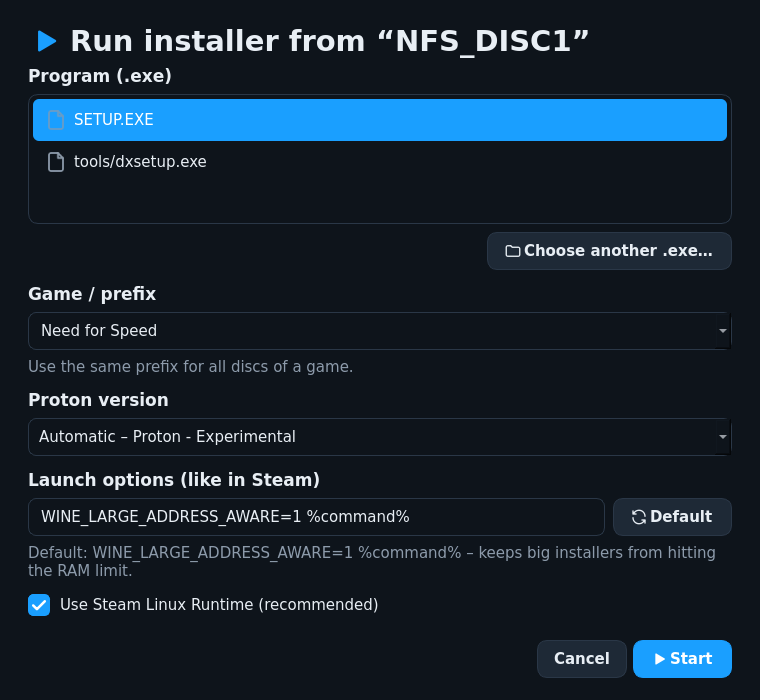
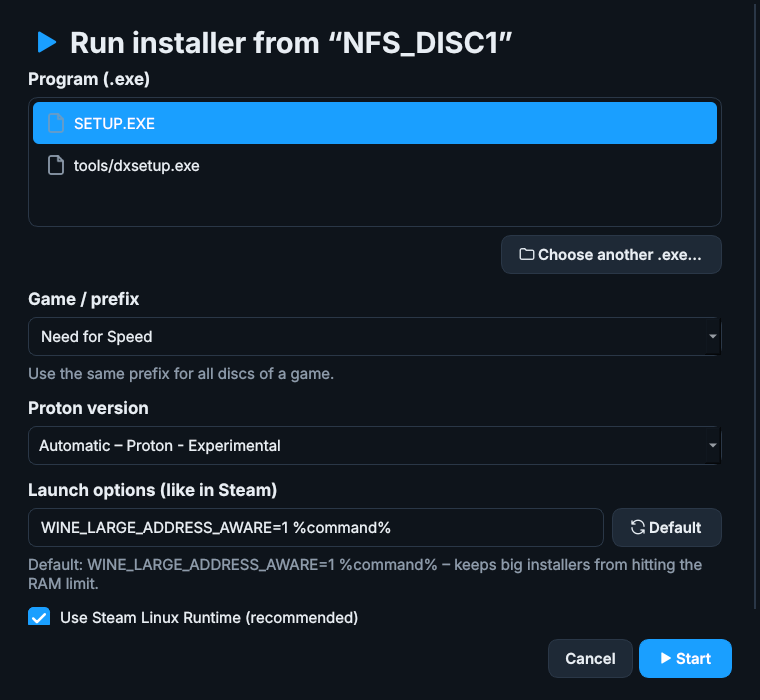
Fix installers not starting: launch like Steam (v2.0.1)
Start the .exe with its Linux path instead of a D:\ drive letter, skip the
separate wineboot run, remove D:-G: links left behind by 2.0.0, drop
STEAM_COMPAT_LIBRARY_PATHS and set the app id variables. Drive letters
are now an experimental option (off by default).

Claude-Session: https://claude.ai/code/session_01C7fdTPdnkKPmWx4WZtynzN

diff --git a/src/isomounttool/gui.py b/src/isomounttool/gui.py
@@ -251,18 +251,24 @@ class GameRunner(QThread):
                 log.write(f"{core.APP_NAME} {core.app_version()}\nProton: {self.tool.name} ({self.tool.path})\n"
                           f"Prefix: {self.prefix.path}\nProgram: {self.exe}\n\n")
                 log.flush()
-                if not self.prefix.initialized:
-                    self.status.emit(self.t("st_preparing", name=self.prefix.name))
-                    cmd, env, cwd = core.init_command(self.prefix, self.tool, self.cfg, self.use_runtime)
-                    log.write("$ " + " ".join(cmd) + "\n")
-                    log.flush()
-                    try:
-                        subprocess.run(cmd, env=env, cwd=cwd, stdout=log, stderr=subprocess.STDOUT, timeout=600)
-                    except subprocess.TimeoutExpired:
-                        log.write("prefix init timed out\n")
-                linked = core.link_prefix_drives(self.prefix)
+                letters = bool(self.cfg.get("drive_letters", False))
                 isos = core.current_isos()
-                win = core.windows_path_for(self.exe, isos) if (self.from_iso and linked) else ""
+                win = ""
+                if letters:
+                    # experimental: create the prefix first so D:..G: can be linked into it
+                    if not self.prefix.initialized:
+                        self.status.emit(self.t("st_preparing", name=self.prefix.name))
+                        cmd, env, cwd = core.init_command(self.prefix, self.tool, self.cfg, self.use_runtime)
+                        log.write("$ " + " ".join(cmd) + "\n")
+                        log.flush()
+                        try:
+                            subprocess.run(cmd, env=env, cwd=cwd, stdout=log, stderr=subprocess.STDOUT, timeout=600)
+                        except subprocess.TimeoutExpired:
+                            log.write("prefix init timed out\n")
+                    if core.link_prefix_drives(self.prefix) and self.from_iso:
+                        win = core.windows_path_for(self.exe, isos)
+                elif core.unlink_prefix_drives(self.prefix):
+                    log.write("Removed drive letters D:-G: of older versions from this prefix\n")
                 cmd, env, cwd = core.build_launch(self.exe, self.prefix, self.tool, self.cfg, isos, win,
                                                   self.launch_options, self.use_runtime)
                 log.write("\n$ " + " ".join(cmd) + "\n")
@@ -302,9 +308,9 @@ class SlotCard(QFrame):
     open_requested = Signal(object)
     install_requested = Signal(object)
 
-    def __init__(self, t: Translator, slot: int):
+    def __init__(self, t: Translator, slot: int, letters: bool = False):
         super().__init__()
-        self.t, self.slot, self.iso = t, slot, None
+        self.t, self.slot, self.iso, self.letters = t, slot, None, letters
         self.setObjectName("Card")
         self.setAcceptDrops(True)
         self.setMinimumHeight(220)
@@ -325,7 +331,10 @@ class SlotCard(QFrame):
         t1 = label(f"{t('slot', n=slot + 1)} · {t('slot_empty')}", "CardTitle")
         t1.setAlignment(Qt.AlignCenter)
         el.addWidget(t1)
-        t2 = label(t("slot_empty_hint") + f"  ·  {t('drive', l=core.DRIVE_LETTERS[slot].upper())}", "Muted")
+        hint = t("slot_empty_hint")
+        if letters:
+            hint += f"  ·  {t('drive', l=core.DRIVE_LETTERS[slot].upper())}"
+        t2 = label(hint, "Muted")
         t2.setAlignment(Qt.AlignCenter)
         el.addWidget(t2)
         el.addStretch(1)
@@ -396,8 +405,9 @@ class SlotCard(QFrame):
             self.setCursor(Qt.ArrowCursor)
             self.title.setText(iso.label)
             self.file.setText(iso.name)
-            self.drive_badge.setText(self.t("drive", l=iso.drive_letter) if iso.drive_letter else "")
-            self.drive_badge.setVisible(bool(iso.drive_letter))
+            show = bool(iso.drive_letter) and self.letters
+            self.drive_badge.setText(self.t("drive", l=iso.drive_letter) if show else "")
+            self.drive_badge.setVisible(show)
             self.path.setText(iso.mountpoint or self.t("not_mounted"))
             found = core.find_installers(iso.mountpoint) if iso.mountpoint else []
             self.installer.setText(self.t("installer_found", exe=os.path.relpath(found[0], iso.mountpoint))
@@ -485,7 +495,7 @@ class IsoPage(QWidget):
         grid.setSpacing(18)
         self.cards = []
         for i in range(core.MAX_ISOS):
-            c = SlotCard(t, i)
+            c = SlotCard(t, i, bool(win.cfg.get("drive_letters", False)))
             c.mount_requested.connect(lambda slot, path: win.mount_dialog(slot, path))
             c.eject_requested.connect(win.eject_iso)
             c.open_requested.connect(lambda iso: core.open_path(iso.mountpoint))
@@ -790,6 +800,11 @@ class SettingsPage(QWidget):
         self.rt.setChecked(bool(cfg.get("use_runtime", True)))
         self.rt.toggled.connect(lambda v: self._set("use_runtime", bool(v)))
         pl.addWidget(self.rt)
+        self.letters = QCheckBox(t("set_letters"))
+        self.letters.setChecked(bool(cfg.get("drive_letters", False)))
+        self.letters.toggled.connect(self._letters_changed)
+        pl.addWidget(self.letters)
+        pl.addWidget(label(t("set_letters_hint"), "Muted", wrap=True))
         self.log = QCheckBox(t("set_log"))
         self.log.setChecked(bool(cfg.get("proton_log", False)))
         self.log.toggled.connect(lambda v: self._set("proton_log", bool(v)))
@@ -832,6 +847,10 @@ class SettingsPage(QWidget):
     def _set(self, key, value):
         self.win.cfg[key] = value
         self.win.cfg.save()
+
+    def _letters_changed(self, v):
+        self._set("drive_letters", bool(v))
+        QTimer.singleShot(0, lambda: self.win.rebuild(page=2))
 
     def _reset_opts(self):
         self.opts.setText(core.DEFAULT_LAUNCH_OPTIONS)
@@ -1124,7 +1143,7 @@ class MainWindow(QMainWindow):
             if exc:
                 self._mount_error(exc)
             elif res:
-                self.notify(self.t("mounted_toast", name=res.name, l=res.drive_letter))
+                self.notify(self.t("mounted_toast_simple", name=res.name))
 
         self._start_task(core.mount_iso, path, slot, done=done)
 

diff --git a/src/isomounttool/core.py b/src/isomounttool/core.py
@@ -78,6 +78,7 @@ DEFAULT_CONFIG = {
     "proton_log": False,
     "prefix_base": "",         # "" = ~/Games/IsoMountTool
     "launch_options": DEFAULT_LAUNCH_OPTIONS,
+    "drive_letters": False,    # experimental: map slots to D:..G: inside prefixes
 }
 
 
@@ -735,8 +736,9 @@ def delete_prefix(prefix: Prefix):
     shutil.rmtree(prefix.path)
 
 
-def set_cdrom_registry(system_reg: str, letters=DRIVE_LETTERS) -> bool:
-    """Marks the given drive letters as CD-ROM drives (HKLM\\Software\\Wine\\Drives)."""
+def set_cdrom_registry(system_reg: str, letters=DRIVE_LETTERS, remove: bool = False) -> bool:
+    """Marks the given drive letters as CD-ROM drives (HKLM\\Software\\Wine\\Drives),
+    or removes these entries again with remove=True."""
     try:
         with open(system_reg, encoding="utf-8", errors="surrogateescape") as f:
             text = f.read()
@@ -747,7 +749,15 @@ def set_cdrom_registry(system_reg: str, letters=DRIVE_LETTERS) -> bool:
     header_re = re.compile(r"^\[Software\\\\Wine\\\\Drives\](\s+\d+)?\s*$", re.IGNORECASE)
     idx = next((i for i, l in enumerate(lines) if header_re.match(l)), None)
     wanted = {f'"{l}:"': f'"{l}:"="cdrom"' for l in letters}
-    if idx is None:
+    if remove:
+        if idx is None:
+            return True
+        end = idx + 1
+        while end < len(lines) and lines[end].strip() != "" and not lines[end].startswith("["):
+            end += 1
+        drop = {v.lower() for v in wanted.values()}
+        lines[idx + 1:end] = [l for l in lines[idx + 1:end] if l.strip().lower() not in drop]
+    elif idx is None:
         if lines and lines[-1] != "":
             lines.append("")
         lines.append(f"[Software\\\\Wine\\\\Drives] {int(time.time())}")
@@ -808,6 +818,28 @@ def link_prefix_drives(prefix: Prefix) -> bool:
             ok = False
     set_cdrom_registry(os.path.join(prefix.pfx, "system.reg"))
     return ok
+
+
+def unlink_prefix_drives(prefix: Prefix) -> bool:
+    """Removes the D:..G: links this tool created (and their CD-ROM entries) from a prefix.
+
+    Without them Proton behaves exactly like when the .exe is started from Steam."""
+    dosdevices = os.path.join(prefix.pfx, "dosdevices")
+    if not os.path.isdir(dosdevices):
+        return False
+    ours = drives_dir()
+    removed = []
+    for letter in DRIVE_LETTERS:
+        link = os.path.join(dosdevices, f"{letter}:")
+        try:
+            if os.path.islink(link) and os.readlink(link).startswith(ours):
+                os.remove(link)
+                removed.append(letter)
+        except OSError:
+            pass
+    if removed:
+        set_cdrom_registry(os.path.join(prefix.pfx, "system.reg"), removed, remove=True)
+    return bool(removed)
 
 
 def windows_path_for(exe: str, isos: list[IsoMount]) -> str:
@@ -872,7 +904,9 @@ def build_launch(exe: str, prefix: Prefix, tool: ProtonTool, cfg: dict,
         "STEAM_COMPAT_INSTALL_PATH": exe_dir,
         "STEAM_COMPAT_TOOL_PATHS": ":".join([tool.path] + ([runtime] if runtime else [])),
         "STEAM_COMPAT_MOUNTS": ":".join(mounts),
-        "STEAM_COMPAT_LIBRARY_PATHS": ":".join(mounts),
+        "STEAM_COMPAT_APP_ID": "0",
+        "SteamAppId": "0",
+        "SteamGameId": "0",
         "PROTON_VERB": "waitforexitandrun",
     })
     if cfg.get("proton_log"):

diff --git a/src/isomounttool/i18n.py b/src/isomounttool/i18n.py
@@ -89,6 +89,9 @@ STRINGS = {
     "set_proton": ("Standard-Proton", "Default Proton"),
     "set_runtime": ("Proton in der Steam Linux Runtime starten (empfohlen)", "Run Proton inside the Steam Linux Runtime (recommended)"),
     "set_log": ("Proton-Log schreiben (zur Fehlersuche)", "Write Proton log (for troubleshooting)"),
+    "set_letters": ("Experimentell: ISOs als Laufwerke D:–G: im Präfix (Disc-Wechsel)", "Experimental: ISOs as drives D:–G: in the prefix (disc swapping)"),
+    "set_letters_hint": ("Aus = Start genau wie über Steam (empfohlen). Nur einschalten, wenn ein Installer unbedingt ein CD-Laufwerk verlangt.",
+                         "Off = started exactly like from Steam (recommended). Only turn on if an installer really needs a CD drive."),
     "set_prefix_base": ("Ordner für Präfixe", "Folder for prefixes"),
     "set_choose": ("Ändern…", "Change…"),
     "set_options": ("Standard-Startoptionen", "Default launch options"),
@@ -119,6 +122,7 @@ STRINGS = {
     "err_eject": ("Die ISO konnte nicht ausgeworfen werden.\nWird sie noch von einem Programm oder Dateimanager-Fenster benutzt? Schließe es und versuche es erneut.",
                   "The ISO could not be ejected.\nIs a program or file manager window still using it? Close it and try again."),
     "mounted_toast": ("„{name}“ eingebunden als Laufwerk {l}:", "“{name}” mounted as drive {l}:"),
+    "mounted_toast_simple": ("„{name}“ eingebunden", "“{name}” mounted"),
     "ejected_toast": ("„{name}“ ausgeworfen", "“{name}” ejected"),
     "confirm_eject_all": ("Alle {n} eingebundenen ISOs auswerfen?", "Eject all {n} mounted ISOs?"),
     "nothing_mounted": ("Es ist keine ISO eingebunden.", "No ISO is mounted."),

diff --git a/tests/test_core.py b/tests/test_core.py
@@ -133,6 +133,31 @@ class CoreTests(unittest.TestCase):
         with open(os.path.join(prefix.pfx, "system.reg")) as f:
             self.assertEqual(f.read().count('"d:"="cdrom"'), 1)
 
+    def test_unlink_prefix_drives_restores_steam_like_prefix(self):
+        core.current_isos()
+        prefix = core.get_prefix(core.Config(), "Anno 1602")
+        core.link_prefix_drives(prefix)
+        dos = os.path.join(prefix.pfx, "dosdevices")
+        os.symlink("/", os.path.join(dos, "z:"))
+        self.assertTrue(core.unlink_prefix_drives(prefix))
+        self.assertFalse(os.path.lexists(os.path.join(dos, "d:")))
+        self.assertEqual(os.readlink(os.path.join(dos, "z:")), "/")      # untouched
+        with open(os.path.join(prefix.pfx, "system.reg")) as f:
+            self.assertNotIn("cdrom", f.read())
+        self.assertFalse(core.unlink_prefix_drives(prefix))
+
+    def test_default_launch_is_steam_like(self):
+        cfg = core.Config()
+        self.assertFalse(cfg["drive_letters"])
+        isos = core.current_isos()
+        tool = core.pick_proton(core.find_protons())
+        exe = core.find_installers(isos[0].mountpoint)[0]
+        cmd, env, cwd = core.build_launch(exe, core.get_prefix(cfg, "X"), tool, cfg, isos)
+        self.assertEqual(cmd[-1], exe)                    # unix path, like Steam
+        self.assertEqual(cwd, os.path.dirname(exe))
+        self.assertNotIn("STEAM_COMPAT_LIBRARY_PATHS", env)
+        self.assertEqual(env["SteamAppId"], "0")
+
     def test_registry_existing_section(self):
         reg = os.path.join(self.tmp.name, "system.reg")
         with open(reg, "w") as f:

diff --git a/README.md b/README.md
@@ -22,7 +22,7 @@
 - 🚀 **Newest Proton automatically** – Proton Experimental if installed, otherwise the highest version (official or GE-Proton). Any installed version can be picked
 - 🧠 **No more RAM-limit crashes** – launch options work like in Steam, default: `WINE_LARGE_ADDRESS_AWARE=1 %command%`
 - 🗂 **One prefix per game** – stored in `~/Games/IsoMountTool/<game>`
-- 💽 **Disc swapping** – slot 1–4 are drives **D:–G:** inside every prefix (marked as CD-ROM). When the installer asks for disc 2, eject disc 1 and mount disc 2 into the same slot
+- 💽 **Multiple discs** – when the installer asks for disc 2, eject disc 1 and mount disc 2 (it is reachable under `Z:\run\media\…`). Optional, experimental: slots 1–4 as drives **D:–G:** inside the prefix
 - ▶ **Games & prefixes page** – start the installed game, run any program in its prefix, open drive C:, delete a prefix
 - 🌐 **German & English**
 - 🔄 **Auto update** – checks this repository for new releases on start and asks whether to update or keep the current version (can be turned off)
@@ -53,7 +53,7 @@
    - **Proton version** – *Automatic* uses the newest one
    - **Launch options** – `WINE_LARGE_ADDRESS_AWARE=1 %command%` by default, same syntax as in Steam
 4. Click **Start** and install the game as usual (to `C:\` inside the prefix).
-5. **Multiple discs?** When the installer asks for the next disc: eject the ISO in the tool and mount the next one into the same slot – it keeps the same drive letter.
+5. **Multiple discs?** When the installer asks for the next disc: eject the ISO in the tool, mount the next one and point the installer to it (`Z:\run\media\<user>\<disc>`). If an installer insists on a CD drive, turn on *ISOs as drives D:–G:* in the settings (experimental).
 6. Afterwards, open **Games & prefixes** → **Run program…** and choose the game's `.exe` once. From then on **Play** starts it.
 
 Logs of every run are stored in `~/.local/share/steamos-isomounttool/logs/`.
@@ -74,8 +74,8 @@ Logs of every run are stored in `~/.local/share/steamos-isomounttool/logs/`.
 ## How it works
 
 - **Mounting:** `udisksctl loop-setup --read-only` + `udisksctl mount`. Mounted ISOs are found through the loop devices, so ISOs mounted another way count toward the limit of 4 too.
-- **Proton:** Proton is started the way Steam does it: `STEAM_COMPAT_DATA_PATH` points to the game's prefix, and Proton runs inside the Steam Linux Runtime it asks for (`_v2-entry-point`). Your launch options are applied like in Steam (`VAR=value … %command% args`).
-- **Drive letters:** `~/.local/share/steamos-isomounttool/drives/d…g` always point to the ISO in slot 1–4. Every prefix links `D:`–`G:` there and marks them as CD-ROM drives, so discs can be swapped while an installer runs.
+- **Proton:** Proton is started the way Steam starts a non-Steam game: `STEAM_COMPAT_DATA_PATH` points to the game's prefix, the `.exe` is passed with its Linux path, the working directory is the folder of the `.exe`, and Proton runs inside the Steam Linux Runtime it asks for (`_v2-entry-point`). Your launch options are applied like in Steam (`VAR=value … %command% args`).
+- **Drive letters (experimental, off by default):** `~/.local/share/steamos-isomounttool/drives/d…g` point to the ISO in slot 1–4, and the prefix links `D:`–`G:` there as CD-ROM drives.
 
 Settings: `~/.config/steamos-isomounttool/config.json`
 

diff --git a/CHANGELOG.md b/CHANGELOG.md
@@ -2,6 +2,17 @@
 
 All notable changes to this project are documented here.
 
+## [2.0.1] – 2026-11-14
+
+### Fixed
+- **Installers did not start** (“could not open working directory D:\\”, exit code 1): the installer is now started exactly like Steam does it – with its normal Linux path and without extra drive letters. The installer window opens and you install as usual
+- Prefixes created with 2.0.0 are repaired automatically: the drive links D:–G: are removed on the next start
+- No extra prefix preparation run any more – Proton creates the prefix itself, like under Steam
+- Removed `STEAM_COMPAT_LIBRARY_PATHS` (caused “unable to use parent for game drive” warnings) and set the app id variables Proton expects
+
+### Changed
+- Drive letters D:–G: for mounted ISOs are now an **experimental option** in the settings (off by default)
+
 ## [2.0.0] – 2026-11-14
 
 Big update: a real graphical interface and Windows installers straight from the ISO with Proton 🎮
